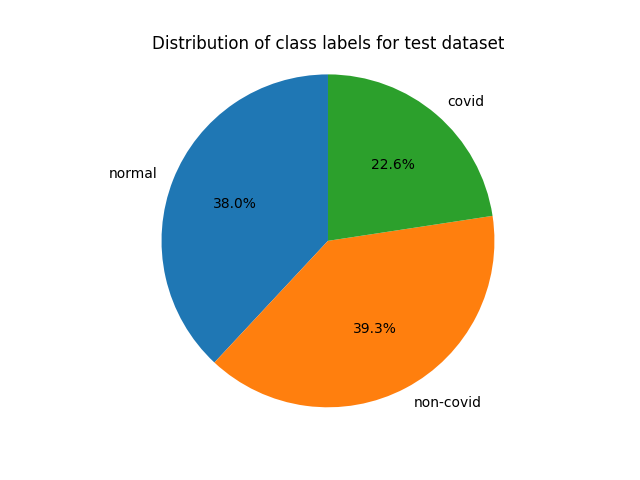
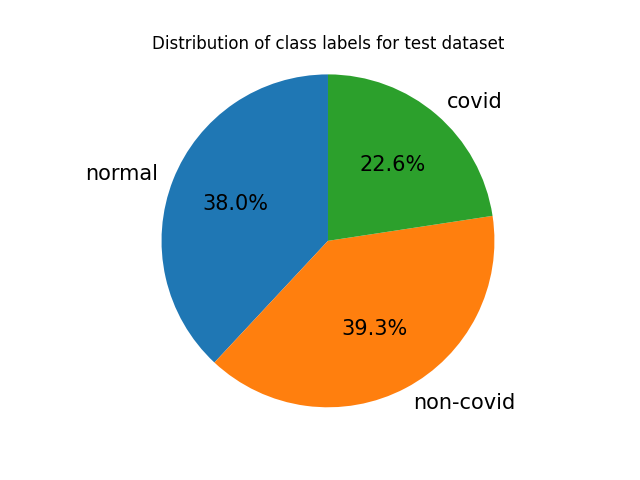
pie visualise

diff --git a/visualise.py b/visualise.py
@@ -9,8 +9,10 @@ def chart_dataset_sizes(dataset):
     sizes = list(dataset.dataset_numbers.values())
 
     fig1, ax1 = plt.subplots()
-    ax1.pie(sizes, labels=labels, autopct='%1.1f%%',
+    pathces, texts, autotexts = ax1.pie(sizes, labels=labels, autopct='%1.1f%%',
             startangle=90)
+    [_.set_fontsize(15) for _ in texts]
+    [_.set_fontsize(15) for _ in autotexts]
     ax1.axis('equal')  # Equal aspect ratio ensures that pie is drawn as a circle.
 
     ax1.set_title(f"Distribution of class labels for {dataset.dataset_type} dataset")
@@ -70,9 +72,12 @@ def visualise_val_predictions(dataset, target_i, target_c, pred_i, pred_c, accur
     plt.tight_layout()
     plt.savefig('validation_display')
 
-# dataset_dir = './dataset'
-# ld_train = Lung_Train_Dataset(dataset_dir)
-# chart_dataset_sizes(ld_train)
+dataset_dir = './dataset'
+ld_train = Lung_Train_Dataset(dataset_dir)
+chart_dataset_sizes(ld_train)
 
-# ld_test = Lung_Test_Dataset(dataset_dir)
-# chart_dataset_sizes(ld_test)
+ld_test = Lung_Test_Dataset(dataset_dir)
+chart_dataset_sizes(ld_test)
+
+ld_val = Lung_Val_Dataset(dataset_dir)
+chart_dataset_sizes(ld_val)
